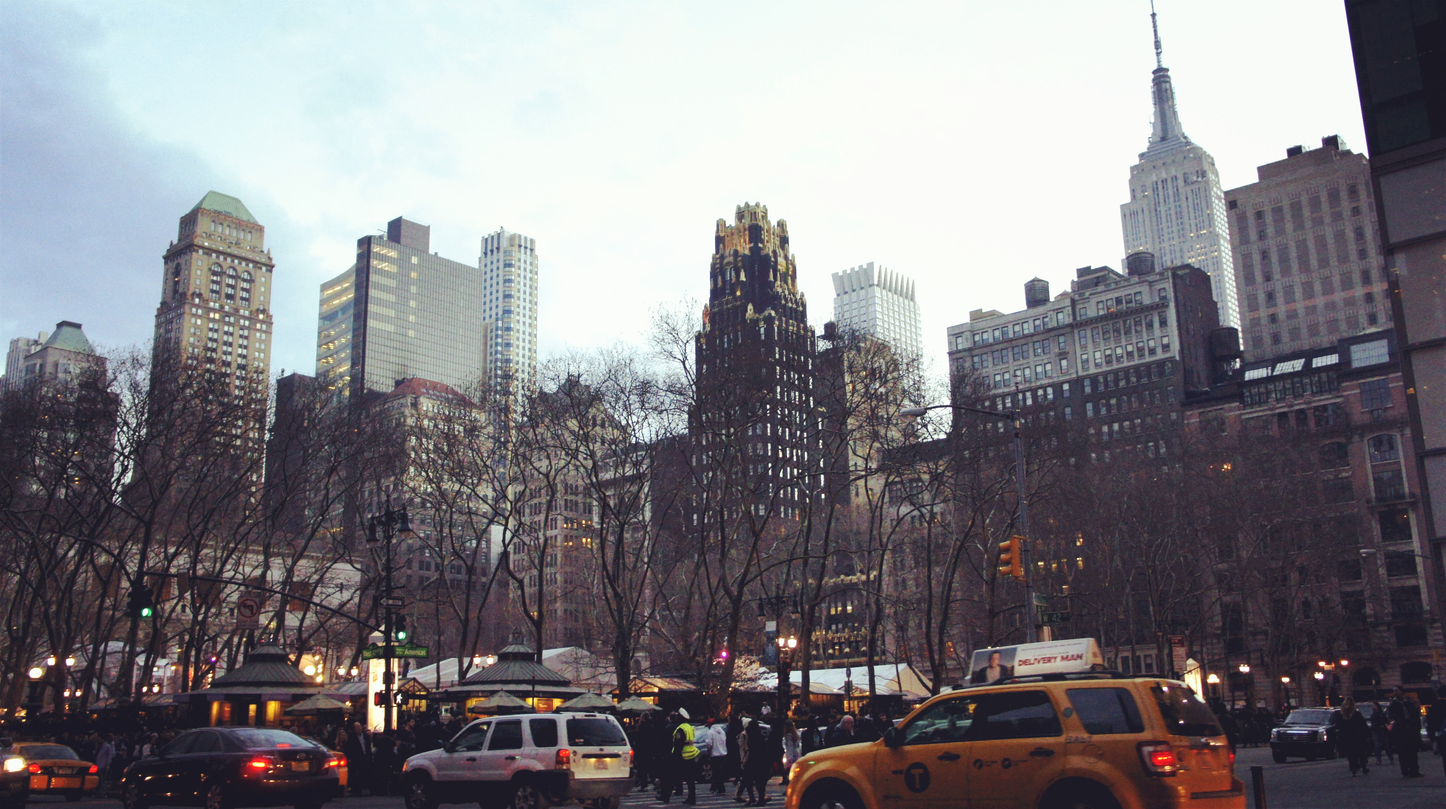
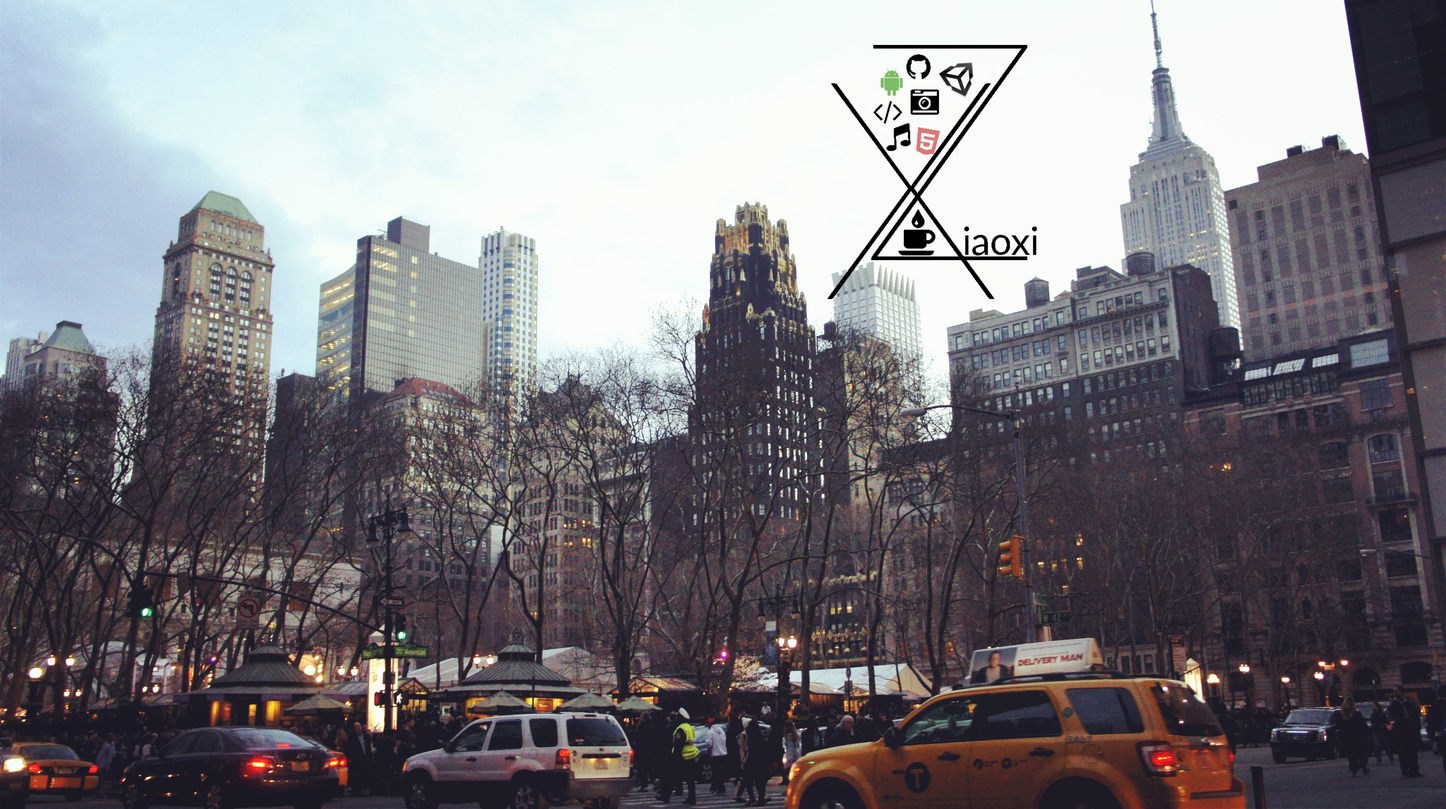
added personal branding

Changed region(s): [[0.5909, 0.031, 0.7153, 0.3718], [0.5598, 0.3408, 0.5909, 0.3718]]

diff --git a/index.html b/index.html
@@ -15,6 +15,9 @@
 	<!-- Custom styles -->
 	<link rel="stylesheet" href="assets/css/style.css">
 
+
+	<link rel="icon" type="image/png" href="assets/images/logo.png">
+
 	<!-- Fonts -->
 	<link href="http://netdna.bootstrapcdn.com/font-awesome/4.0.3/css/font-awesome.min.css" rel="stylesheet" type="text/css">
 	<link href='http://fonts.googleapis.com/css?family=Wire+One' rel='stylesheet' type='text/css'>
@@ -56,8 +59,10 @@
 				<h3 class="tagline">
 					Nice to meet you.<br>
 				</h3>
-			
-				<p><a href="resume.pdf" class="btn btn-default btn-lg">Download my resume</a></p>
+				
+				<p>
+					<a href="resume.pdf" class="btn btn-default btn-lg">Download my resume</a>
+				</p>
 	
 			</div> 
 		</div> 
@@ -168,7 +173,7 @@
 					<img src="assets/images/portfolio/atmoapps.PNG" alt="">
 					<div class="caption">
 						<h3>Atmosphere Apps Website Redesign</h3>
-						<p>Redesign of <a href="http://www.atmosphereapps.com/">www.AtmosphereApps.com</a> using SquareSpace. All graphics and screenshots are created and generated from raw using Adobe Photoshop.</p>
+						<p>Redesign of <a href="http://www.atmosphereapps.com/">www.AtmosphereApps.com</a> using SquareSpace. Responsible for All graphics and screenshots.</p>
 						<p>
 							<a href="http://www.atmosphereapps.com/" class="btn btn-primary" role="button">Atmosphere Apps</a>
 					</div>
@@ -180,7 +185,7 @@
 					<div class="caption">
 						<h3>Skywave.io</h3>
 						<p>
-							Skywave is a SAAS product product developed by <a href="http://www.atmosphereapps.com/">Atmosphere Apps</a> to facilitate communication within an educational, professional or local community.
+							Skywave is a SAAS product product developed by <a href="http://www.atmosphereapps.com/">Atmosphere Apps</a> to facilitate communication for an educational, professional or local community.
 						</p>
 						<p>
 							<a href="http://skywave.io/" class="btn btn-primary" role="button">Skywave.io</a>
